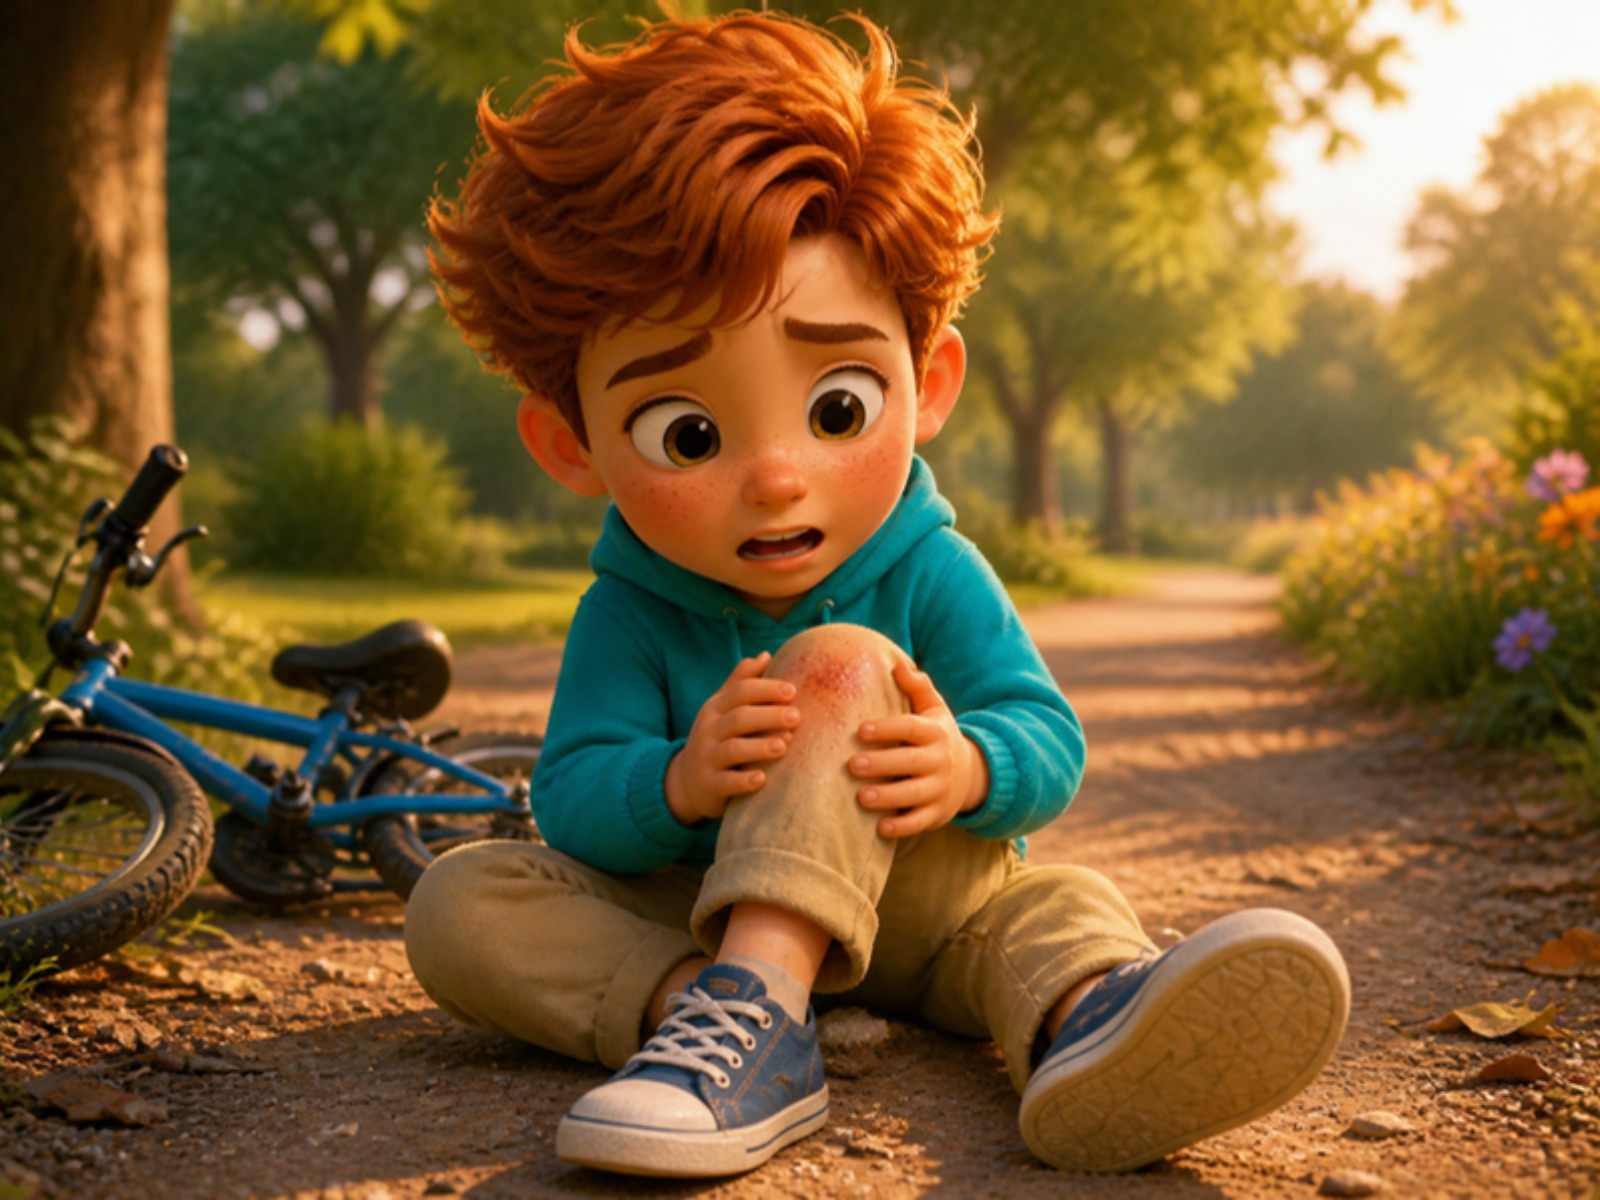
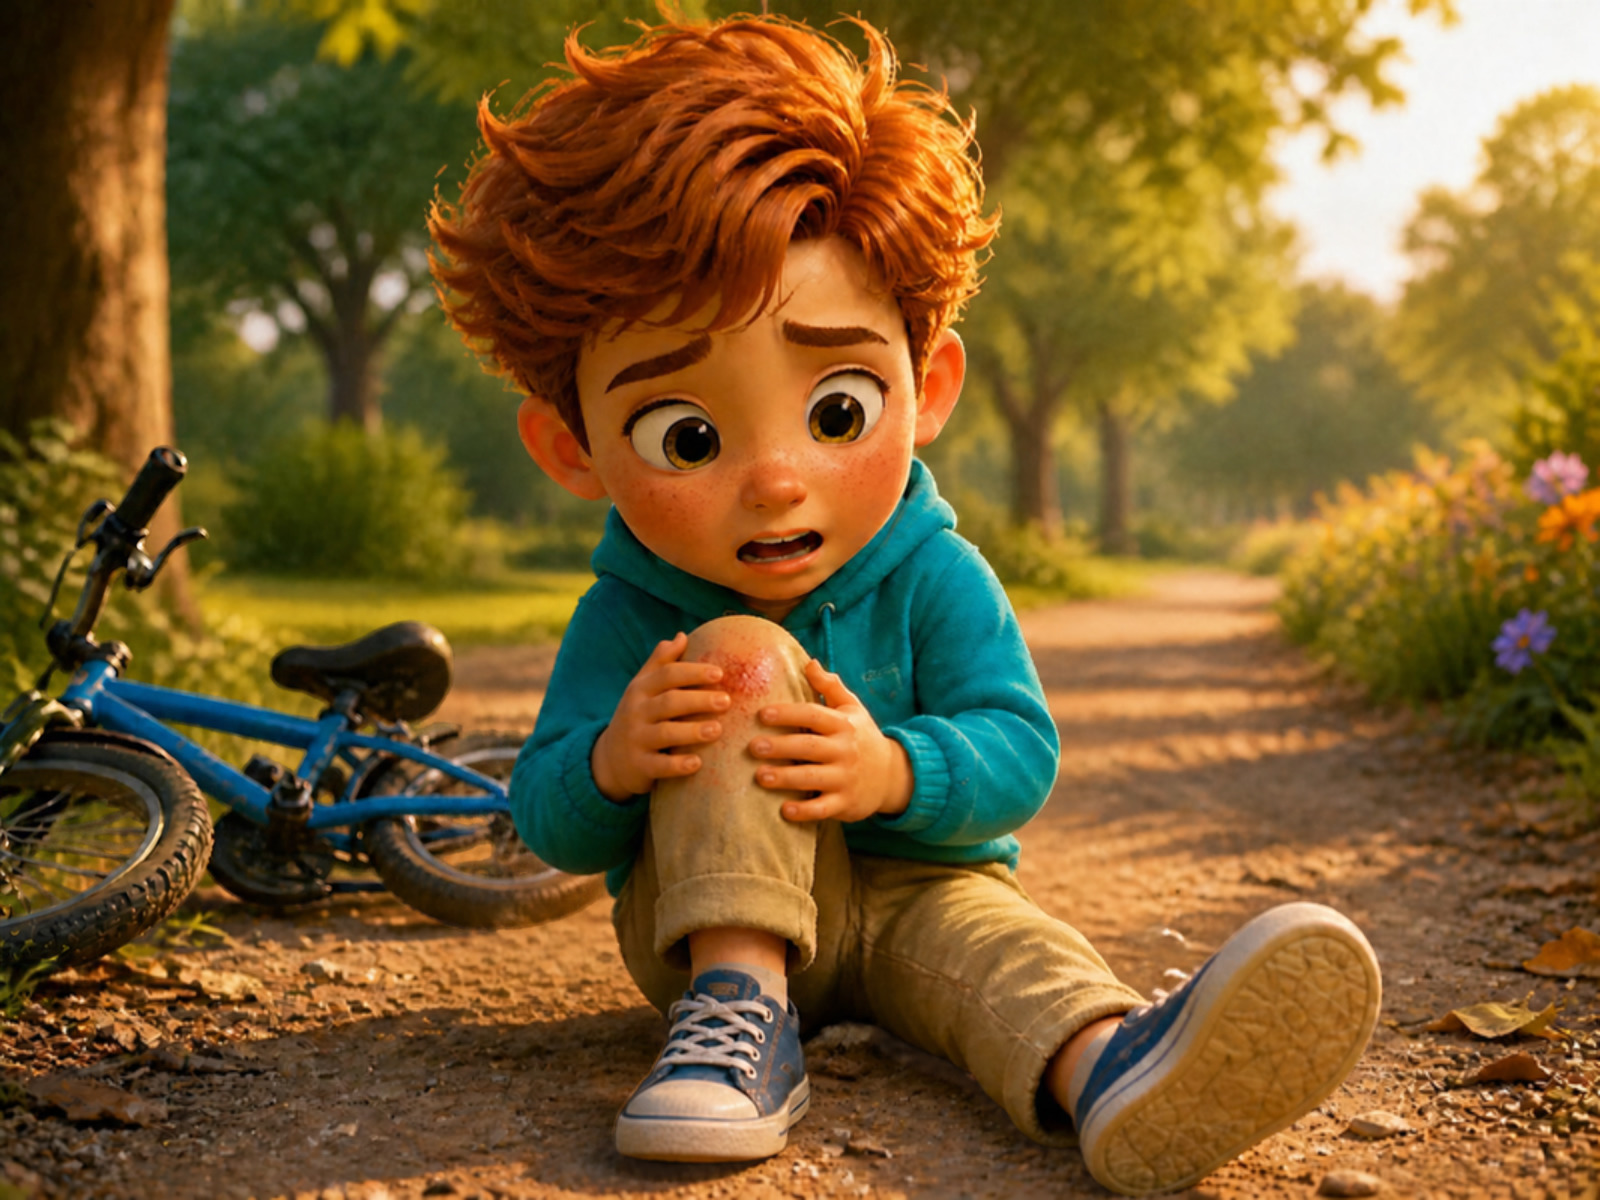
Week 4: fix h-leg picture (extra leg) and show Learn changes in one step
- h-leg: Sam had three legs; regenerated in Canva with exactly two legs.
- Learn "Watch it change": go straight from the first sentence to the
  final one (Ana rests in bed -> Ana should rest in bed) instead of
  showing every small step. The final rule caption stays.

diff --git a/site/js/views/machine.js b/site/js/views/machine.js
@@ -28,7 +28,7 @@ export function machineView(ctx, { subject, verb, to, onDone, compact = false, d
   const { machineSteps, stepText, formula } = grammarOf(ctx.week.week);
   const all = machineSteps(subject, verb, to);
   const steps = direct && to !== 'all' && all.length > 2
-    ? [all[0], { ...all[all.length - 1], caption: `${stepText(all[0])} → ${stepText(all[all.length - 1])}`, fly: undefined }]
+    ? [all[0], { ...all[all.length - 1], caption: all[all.length - 1].caption || `${stepText(all[0])} → ${stepText(all[all.length - 1])}`, fly: undefined }]
     : all;
   const rows = h('ol', { class: 'm-rows' });
   const caption = h('p', { class: 'm-caption', 'aria-live': 'polite' });
@@ -37,7 +37,7 @@ export function machineView(ctx, { subject, verb, to, onDone, compact = false, d
   let anims = [];
   ctx.onCleanup(() => anims.forEach((a) => a.cancel && a.cancel()));
 
-  const next = button('Show the next change', { icon: 'next', kind: 'primary' });
+  const next = button(steps.length === 2 ? 'Show the change' : 'Show the next change', { icon: 'next', kind: 'primary' });
   const again = button('Start again', { icon: 'restart', kind: 'ghost' });
 
   function rowEl(step, i) {

diff --git a/site/js/views/learn.js b/site/js/views/learn.js
@@ -107,7 +107,7 @@ function exampleStep(ctx, ex, step) {
     return h('div', { class: 'lesson-stage no-pic machine-stage' },
       h('div', { class: 'stage-side wide' },
         h('p', { class: 'stage-kicker' }, `Example ${step.n} of ${step.of} · ${titles[ex.machine.to] || 'Watch it change'}`),
-        machineView(ctx, { subject, verb, to: ex.machine.to })));
+        machineView(ctx, { subject, verb, to: ex.machine.to, direct: true })));
   }
   const side = h('div', { class: 'stage-side' }, h('p', { class: 'stage-kicker' }, `Example ${step.n} of ${step.of}`));
   const pic = ex.image ? picture(ctx.week.image(ex.image), { className: 'stage-pic', eager: true, sizes: '(max-width: 760px) 92vw, 55vw' }) : null;
